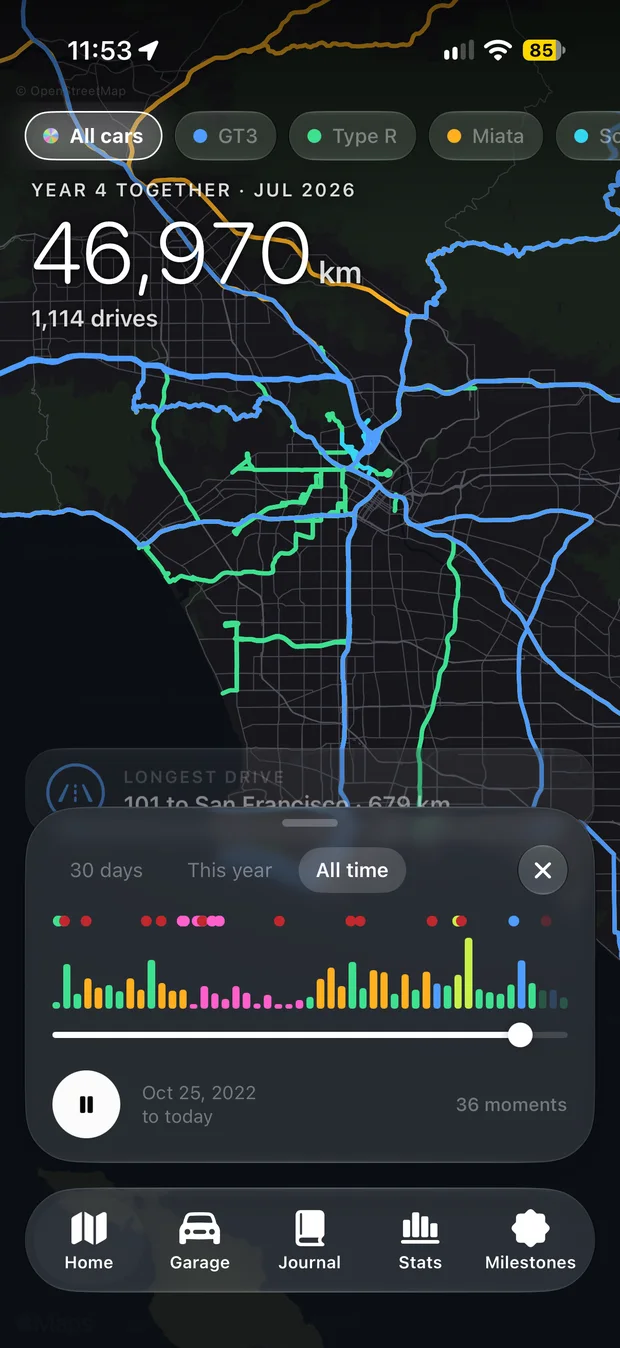
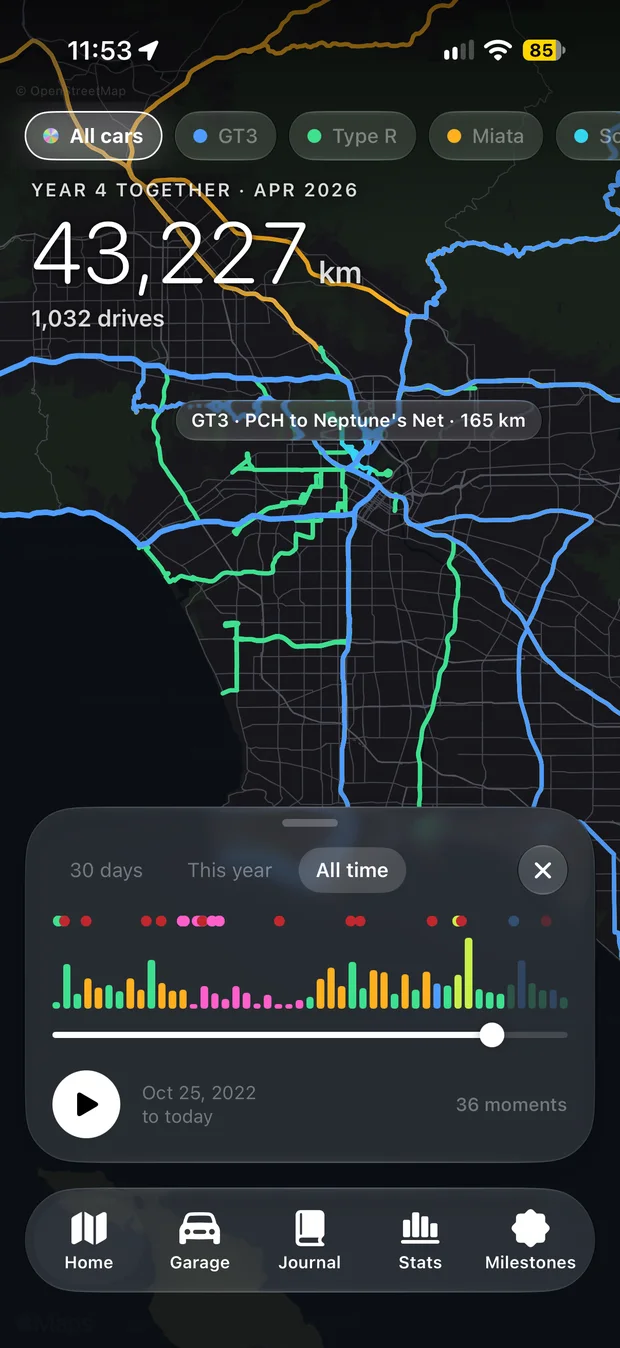
Hero: different Home screenshot
Claude-Session: https://claude.ai/code/session_01G1rxuYaUomcVygVk9vBgjS

diff --git a/index.html b/index.html
@@ -45,7 +45,7 @@
       <div class="hero-stage">
         <div class="wrap hero-in">
           <h1 id="hero-title"><span class="half a">Every road</span> <span class="half b">you've driven.</span></h1>
-          <div class="hero-phone phone-order"><div class="phone reel"><img src="assets/screens/home-map.webp" width="620" height="1348" alt="Kaido Home: a dark map of Los Angeles covered in colored routes, 46,970 km over 1,114 drives, replaying four years" class="on" decoding="async"><img src="assets/screens/garage.webp" width="620" height="1348" alt="Kaido Garage: a Porsche 911 GT3 card over its routes along the California coast, 4,639 km together, with service reminders" loading="lazy" decoding="async"><img src="assets/screens/journal.webp" width="620" height="1348" alt="Kaido Journal: a list of drives such as Arts District, Manhattan Beach and Glendora Mountain Road" loading="lazy" decoding="async"><img src="assets/screens/stats.webp" width="620" height="1348" alt="Kaido Stats: 49,772 km all time, 1,084 hours, 1,224 trips, and 3.8% of Los Angeles explored" loading="lazy" decoding="async"></div></div><div class="hero-spacer" aria-hidden="true"></div>
+          <div class="hero-phone phone-order"><div class="phone reel"><img src="assets/screens/home-map.webp" width="620" height="1348" alt="Kaido Home: a dark map of Los Angeles covered in colored routes, 43,227 km over 1,032 drives, with a PCH drive to Neptune's Net highlighted" class="on" decoding="async"><img src="assets/screens/garage.webp" width="620" height="1348" alt="Kaido Garage: a Porsche 911 GT3 card over its routes along the California coast, 4,639 km together, with service reminders" loading="lazy" decoding="async"><img src="assets/screens/journal.webp" width="620" height="1348" alt="Kaido Journal: a list of drives such as Arts District, Manhattan Beach and Glendora Mountain Road" loading="lazy" decoding="async"><img src="assets/screens/stats.webp" width="620" height="1348" alt="Kaido Stats: 49,772 km all time, 1,084 hours, 1,224 trips, and 3.8% of Los Angeles explored" loading="lazy" decoding="async"></div></div><div class="hero-spacer" aria-hidden="true"></div>
           <div class="hero-foot">
             <div>
               <p class="intro"><strong>Kaido is a logbook for your car.</strong> It records every drive on its own and fills in a map of every road, county and country you've driven, car by car.</p>
